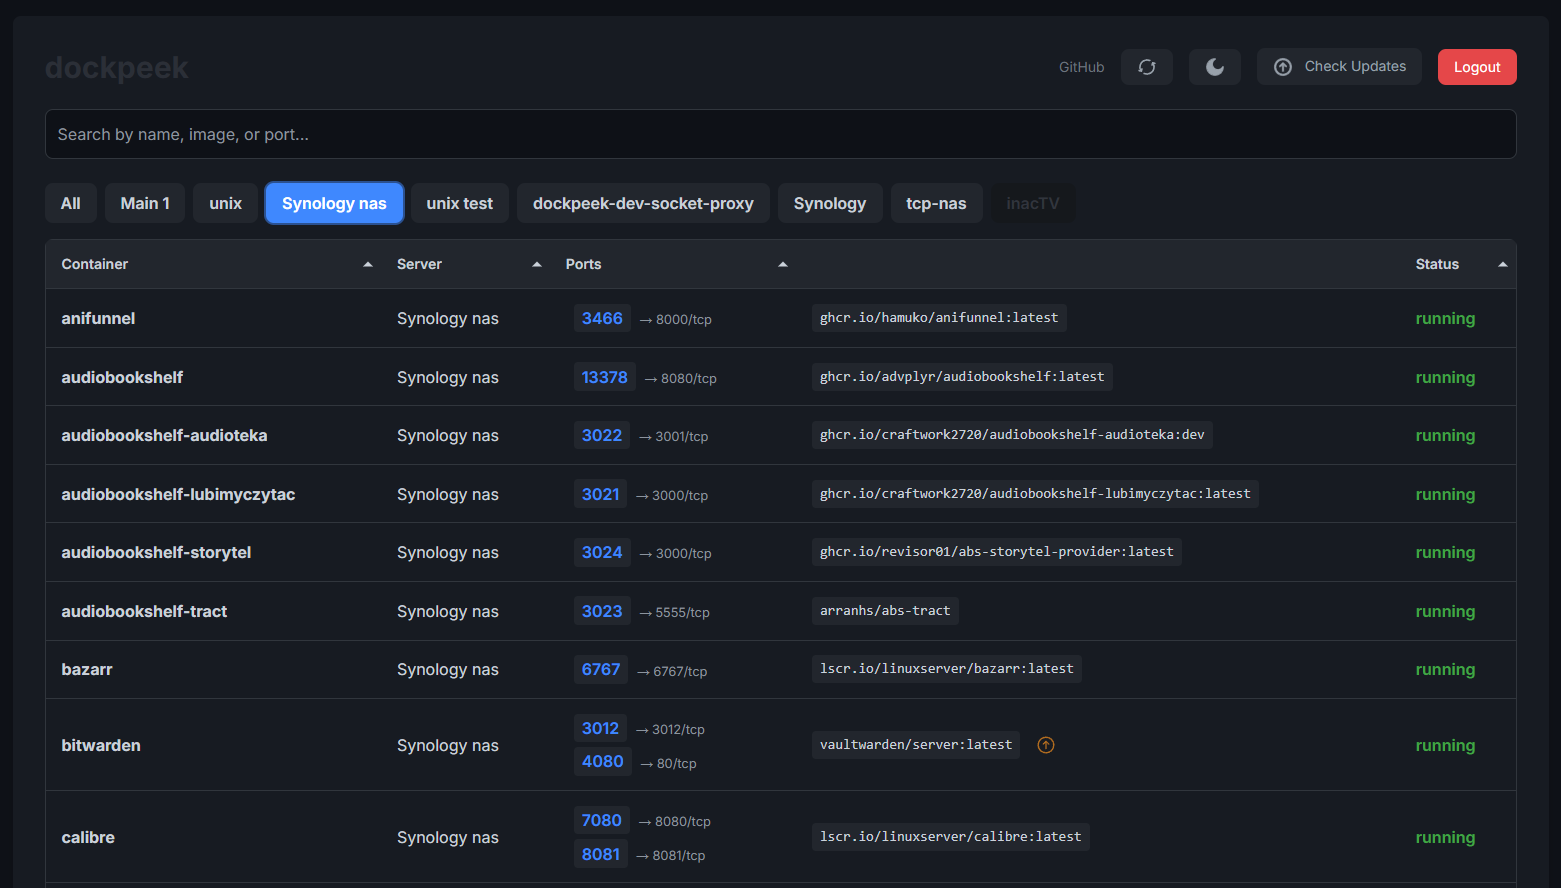
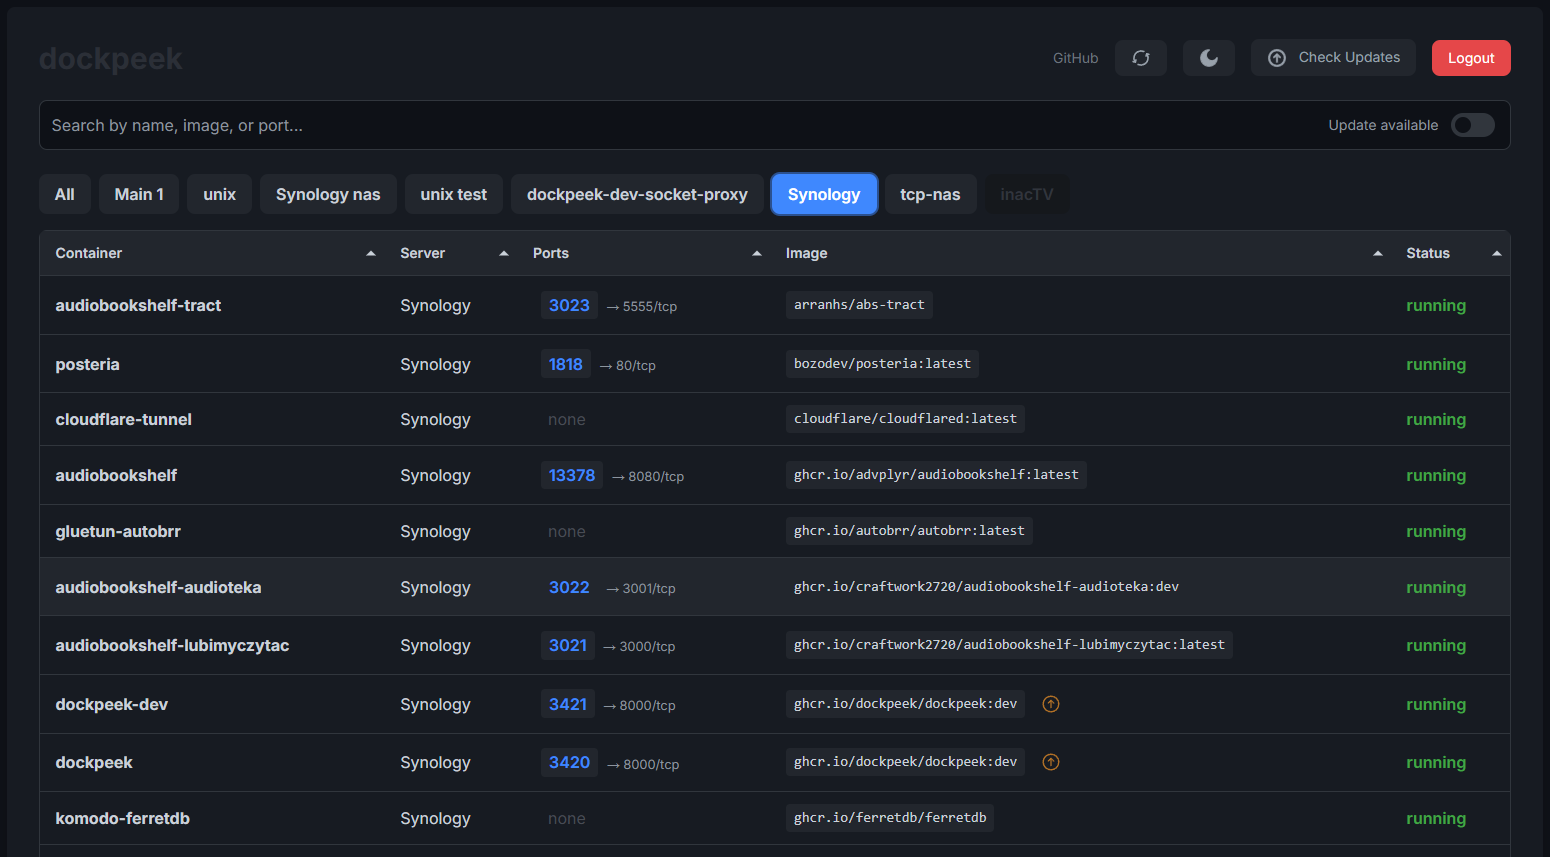
Add new Screenshot

diff --git a/README.md b/README.md
@@ -10,7 +10,7 @@
 <br>
 <br>
 
-**Dockpeek** is a lightweight, self-hosted Docker dashboard that allows you to view and access exposed container ports with a clean, click-to-access interface. It supports both local Docker sockets and remote hosts via `socket-proxy`, making it easy to manage multiple Docker environments from a single place.
+**Dockpeek** is a lightweight, self-hosted Docker dashboard that allows you to view and access exposed container ports with a clean, click-to-access interface. It supports both local Docker sockets and remote hosts via `socket-proxy`, making it easy to manage multiple Docker environments from a single place. Additionally, Dockpeek includes built-in **image update checking**, so you can easily see if newer versions of your container images are available.
 
 
 ### Key Features
